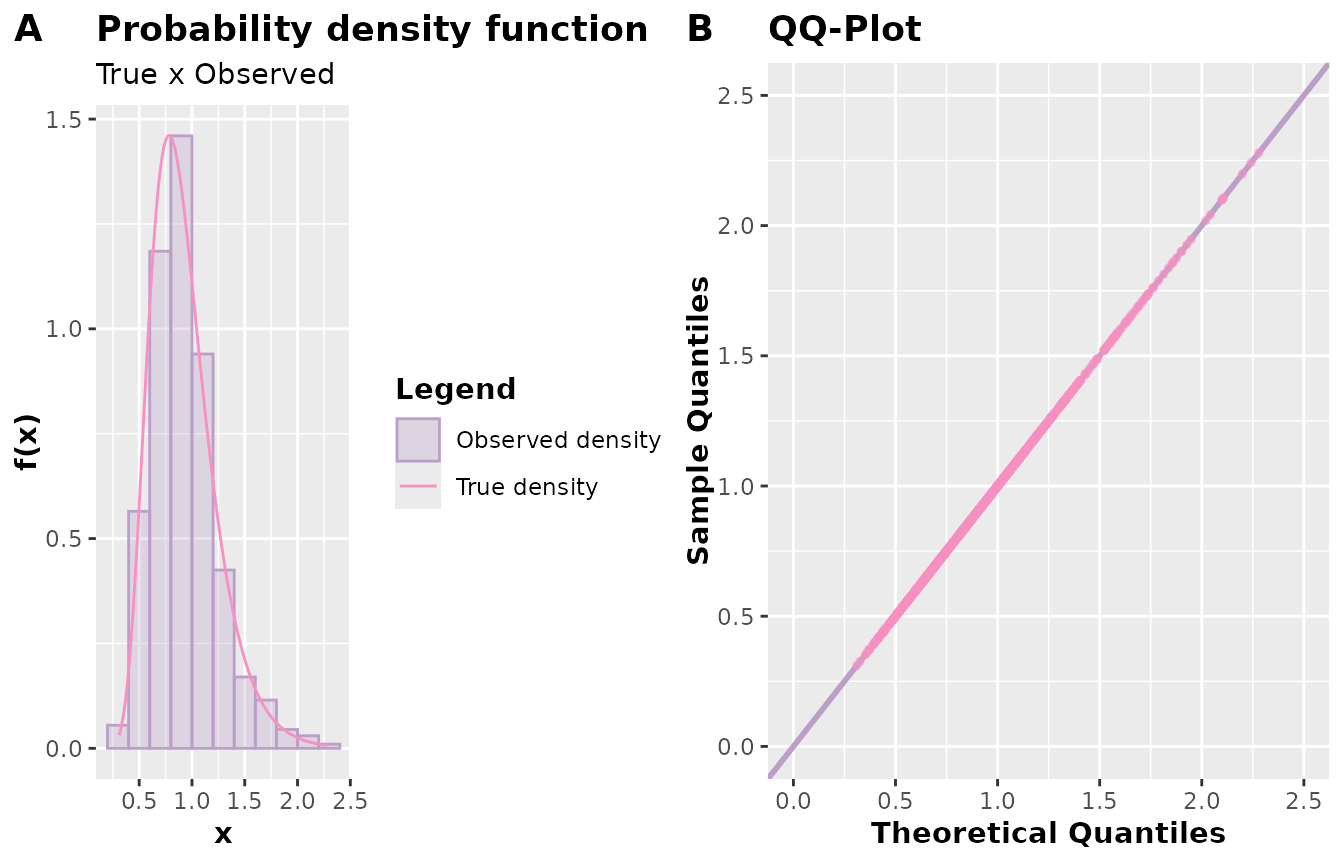
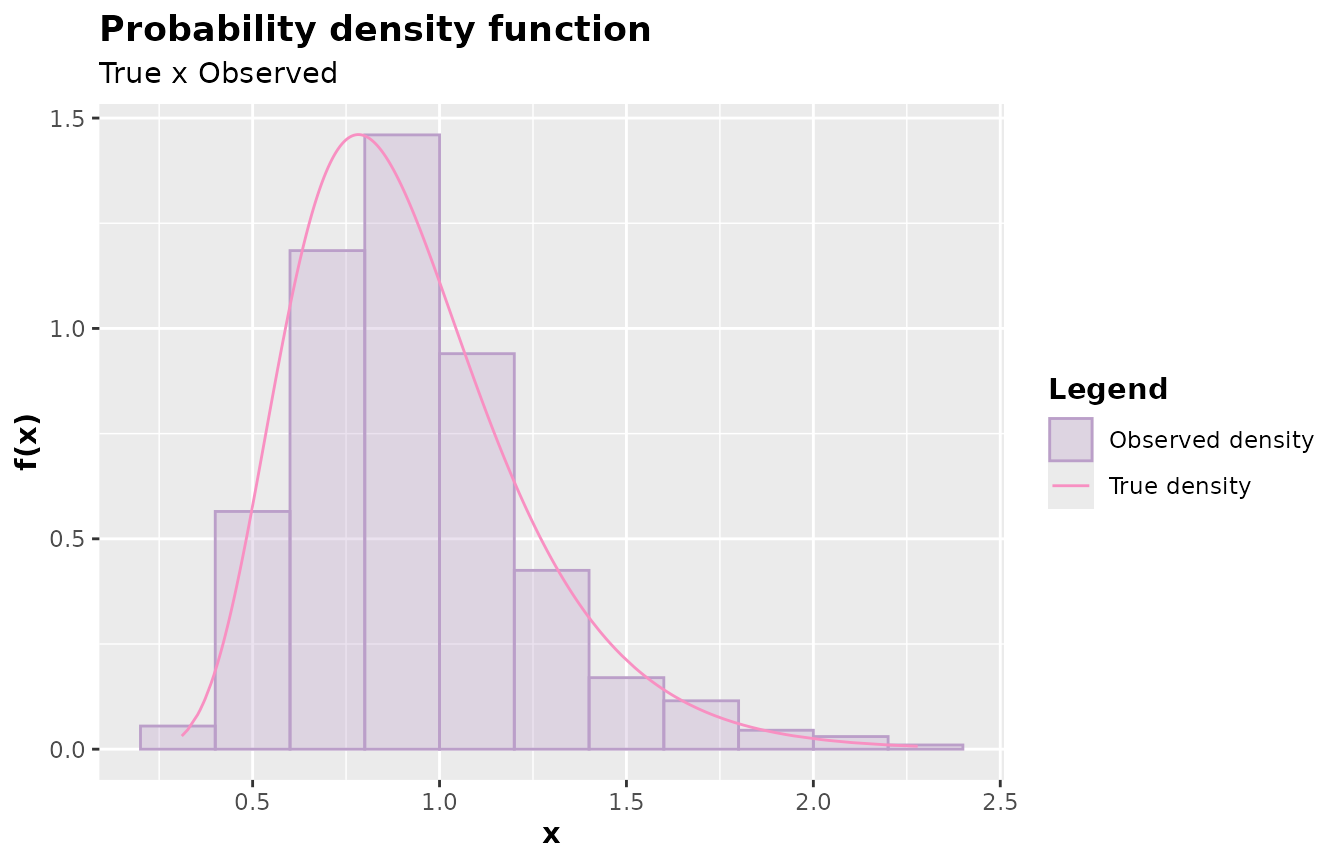
Deploying to gh-pages from @ prdm0/AcceptReject@7ae26cc872180081ccc714048641a9cc93bc5294 🚀

diff --git a/articles/it_works_for_any_univariate_distribution.html b/articles/it_works_for_any_univariate_distribution.html
@@ -119,9 +119,11 @@ not the case. We will use the <code><a href="../reference/accept_reject.html">ac
 generate samples from the Modified Beta - <span class="math inline">\(G\)</span> distribution, which is a distribution
 that is not natively in R and could eventually be implemented by the
 package user.</p>
+<p><br></p>
 <div class="float">
 <img src="ok.gif" alt="Got the idea?"><div class="figcaption">Got the idea?</div>
 </div>
+<p><br></p>
 <p>The following code implements the density (derived in <span class="math inline">\(x\)</span> from the Modified Beta - <span class="math inline">\(G\)</span>), for any <span class="math inline">\(G\)</span>. It is important to note that the user
 could implement it in another way. What matters is that the user has a
 function that implements the probability density function.</p>
@@ -184,7 +186,9 @@ strategy, but if you don’t understand it very well, that’s okay, you
 just need to implement the probability density function that needs to
 generate the observations, in the way you already know how to do.
 Ok?</p>
+<p><br></p>
 <p><img src="attention.gif"></p>
+<p><br></p>
 <p>Now that we have the probability density function with the Modified
 Beta Weibull density function - <code>pdf_mbw()</code>, let’s use the
 <code><a href="../reference/accept_reject.html">accept_reject()</a></code> function to generate observations of a
@@ -198,8 +202,7 @@ variables with the Modified Beta Weibull distribution.</p>
 <span><span class="co">#&gt; </span></span>
 <span><span class="co">#&gt;     qqplot</span></span></code></pre></div>
 <div class="sourceCode" id="cb3"><pre class="downlit sourceCode r">
-<code class="sourceCode R"><span><span class="kw"><a href="https://rdrr.io/r/base/library.html" class="external-link">library</a></span><span class="op">(</span><span class="va"><a href="https://wilkelab.org/cowplot/" class="external-link">cowplot</a></span><span class="op">)</span></span>
-<span></span>
+<code class="sourceCode R"><span></span>
 <span><span class="co"># True parameters</span></span>
 <span><span class="va">a</span> <span class="op">&lt;-</span> <span class="fl">10.5</span></span>
 <span><span class="va">b</span> <span class="op">&lt;-</span> <span class="fl">4.2</span></span>
@@ -217,16 +220,18 @@ variables with the Modified Beta Weibull distribution.</p>
 <span>  <span class="op">)</span></span>
 <span></span>
 <span><span class="co"># Plots</span></span>
-<span><span class="va">p1</span> <span class="op">&lt;-</span> <span class="fu"><a href="https://rdrr.io/r/graphics/plot.default.html" class="external-link">plot</a></span><span class="op">(</span><span class="va">x</span><span class="op">)</span></span>
-<span><span class="va">p2</span> <span class="op">&lt;-</span> <span class="fu"><a href="../reference/qqplot.html">qqplot</a></span><span class="op">(</span><span class="va">x</span><span class="op">)</span></span>
-<span></span>
-<span><span class="fu"><a href="https://wilkelab.org/cowplot/reference/plot_grid.html" class="external-link">plot_grid</a></span><span class="op">(</span><span class="va">p1</span>, <span class="va">p2</span>, nrow <span class="op">=</span> <span class="fl">1L</span>, labels <span class="op">=</span> <span class="st">"AUTO"</span><span class="op">)</span></span></code></pre></div>
+<span><span class="fu"><a href="https://rdrr.io/r/graphics/plot.default.html" class="external-link">plot</a></span><span class="op">(</span><span class="va">x</span><span class="op">)</span></span></code></pre></div>
 <p><img src="it_works_for_any_univariate_distribution_files/figure-html/unnamed-chunk-3-1.png" width="672" style="display: block; margin: auto;"></p>
+<div class="sourceCode" id="cb4"><pre class="downlit sourceCode r">
+<code class="sourceCode R"><span><span class="fu"><a href="../reference/qqplot.html">qqplot</a></span><span class="op">(</span><span class="va">x</span><span class="op">)</span></span></code></pre></div>
+<p><img src="it_works_for_any_univariate_distribution_files/figure-html/unnamed-chunk-3-2.png" width="672" style="display: block; margin: auto;"></p>
+<p><br></p>
 <p>Did you notice how easy it is to use the <a href="https://CRAN.R-project.org/package=AcceptReject" class="external-link"><strong>AcceptReject</strong></a>
 package? Just implement the probability density function and pass it to
 the <code><a href="../reference/accept_reject.html">accept_reject()</a></code> function. It doesn’t matter how you
 implemented it; what matters is that you have the function to pass to
-the f argument of <code><a href="../reference/accept_reject.html">accept_reject()</a></code>.</p>
+the <code>f</code> argument of <code><a href="../reference/accept_reject.html">accept_reject()</a></code>.</p>
+<p><br></p>
 <p><img src="wow.gif"></p>
 </div>
   </main>

diff --git a/articles/inspect.html b/articles/inspect.html
@@ -205,7 +205,7 @@ function will lead us to an even more efficient code.</p>
 <span>  xlim <span class="op">=</span> <span class="fu"><a href="https://rdrr.io/r/base/c.html" class="external-link">c</a></span><span class="op">(</span><span class="fl">0</span>, <span class="fl">10</span><span class="op">)</span></span>
 <span><span class="op">)</span></span>
 <span><span class="fu"><a href="https://rdrr.io/pkg/tictoc/man/tic.html" class="external-link">toc</a></span><span class="op">(</span><span class="op">)</span></span>
-<span><span class="co">#&gt; 0.097 sec elapsed</span></span></code></pre></div>
+<span><span class="co">#&gt; 0.098 sec elapsed</span></span></code></pre></div>
 <div class="sourceCode" id="cb4"><pre class="downlit sourceCode r">
 <code class="sourceCode R"><span></span>
 <span><span class="co"># Specifying the base probability density function</span></span>

diff --git a/articles/accept_reject.html b/articles/accept_reject.html
@@ -566,7 +566,7 @@ function. Check the list of attributes by doing:</p>
 <span><span class="co">#&gt; &lt;partialised&gt;</span></span>
 <span><span class="co">#&gt; function (...) </span></span>
 <span><span class="co">#&gt; f(mean = 0, sd = 1, ...)</span></span>
-<span><span class="co">#&gt; &lt;environment: 0x55e2b25891c0&gt;</span></span>
+<span><span class="co">#&gt; &lt;environment: 0x55cb53f7cdb8&gt;</span></span>
 <span><span class="co">#&gt; </span></span>
 <span><span class="co">#&gt; $args_f</span></span>
 <span><span class="co">#&gt; $args_f$mean</span></span>
